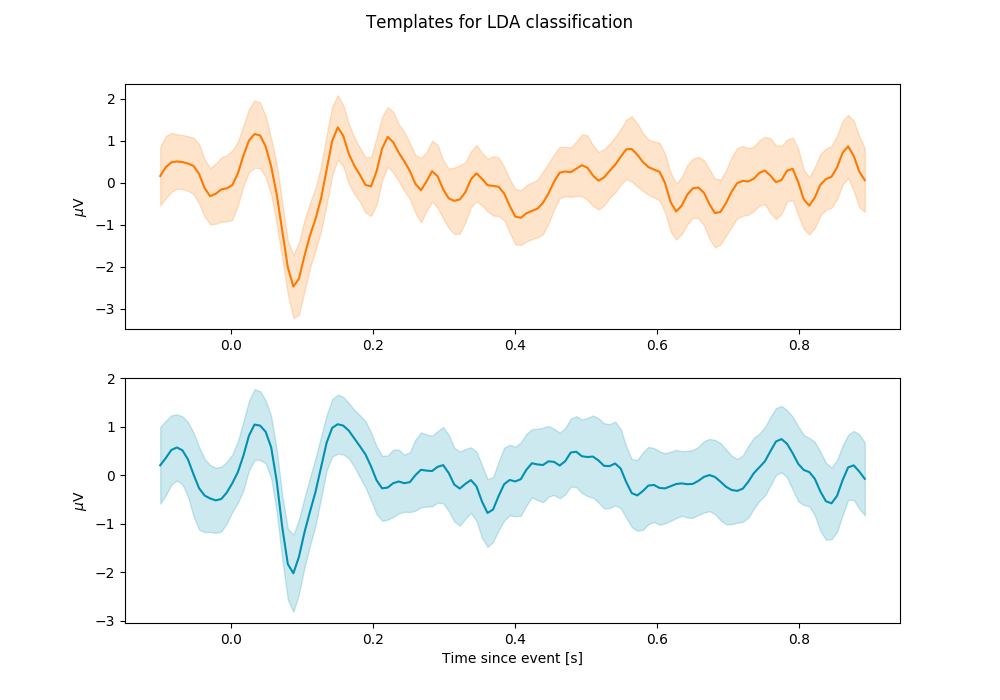
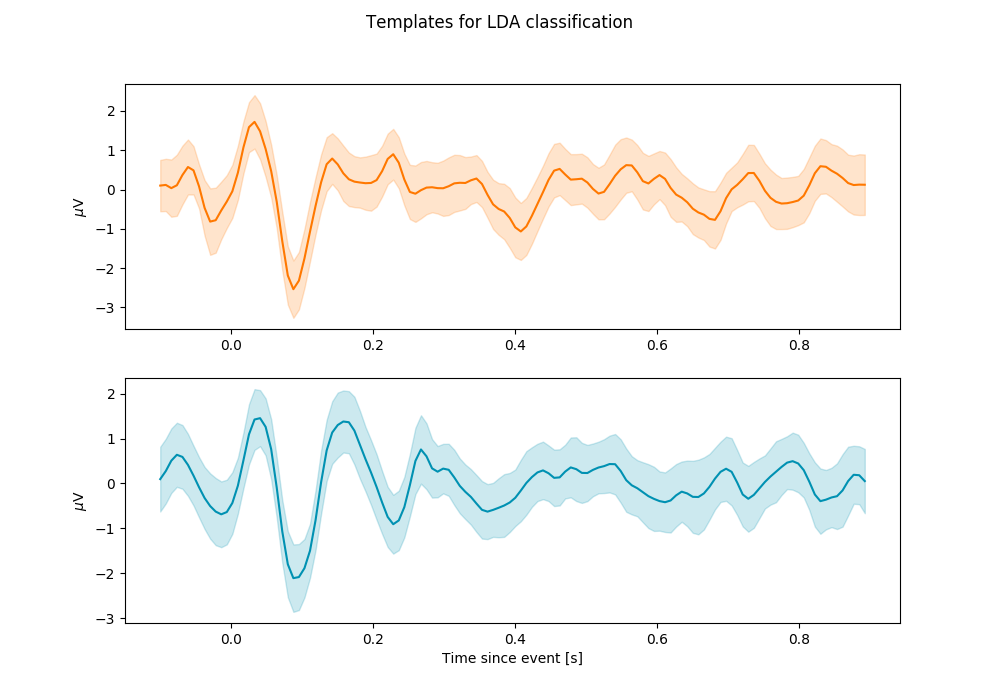
[FEATURE] ROC calculation

diff --git a/analyse/utils.py b/analyse/utils.py
@@ -25,7 +25,7 @@ class ValueWithProps (object):
 		return np.array(_response_array)
 
 
-def ROC(X, y, model, name=None, path=None):
+def ROC(X, y, model, name=None, path=None, show=True):
 
 	indexes = np.arange(0, len(y))
 	np.random.shuffle(indexes)
@@ -78,16 +78,16 @@ def ROC(X, y, model, name=None, path=None):
 		auc += t_p[::-1][i] * df
 	auc -= t_p[-1] * diff_f_p[-1]/2
 
-	# plt.subplot(1, 2, 2)
-	# plt.plot(f_p, t_p)
-	# plt.plot([0, 1], [0, 1], ls='--')
-	# plt.xlabel('False Positive Rate')
-	# plt.ylabel('True Positive Rate')
-	# plt.title("AUC: {:.2f}".format(auc))
-	#
-	# if path: plt.savefig(path)
-	#
-	# plt.show()
+	plt.subplot(1, 2, 2)
+	plt.plot(f_p, t_p)
+	plt.plot([0, 1], [0, 1], ls='--')
+	plt.xlabel('False Positive Rate')
+	plt.ylabel('True Positive Rate')
+	plt.title("AUC: {:.2f}".format(auc))
+
+	if path: plt.savefig(path)
+
+	if show: plt.show()
 
 def bootstrap_error(signals):
 	N = 100
@@ -103,23 +103,44 @@ def bootstrap_error(signals):
 
 def getSignalData():
 	print('Getting Signal Data')
+	data = {
+		'X': {
+			'f1': np.load('../Ania_Ch_classes.npy'),
+			'm1': np.load('../Tomek_classes.npy'),
+		    'm2': np.load('../pawel_classes.npy'),
+	        'm3': np.load('../lukasz_classes.npy'),
+	        'm4': np.load('../Czarek_classes.npy'),
+	        'f2': np.load('../Weronika_classes.npy'),
+	        'f3': np.load('../Ania_S_classes.npy')
+		},
+		'y': {
+			'f1': np.load('../Ania_Ch_labels.npy'),
+			'm1': np.load('../Tomek_labels.npy'),
+			'm2': np.load('../pawel_labels.npy'),
+			'm3': np.load('../lukasz_labels.npy'),
+			'm4': np.load('../Czarek_labels.npy'),
+			'f2': np.load('../Weronika_labels.npy'),
+			'f3': np.load('../Ania_S_labels.npy')
+		}
+	}
 	return {
 		'X': np.concatenate((
-	        np.load('../Ania_Ch_classes.npy'),
-		    np.load('../Tomek_classes.npy'),
-		    np.load('../pawel_classes.npy'),
-		    np.load('../lukasz_classes.npy'),
-		    np.load('../Czarek_classes.npy'),
-		    np.load('../Weronika_classes.npy'),
-		    np.load('../Ania_S_classes.npy')
+	        data['X']['f1'],
+	        data['X']['m1'],
+	        data['X']['m2'],
+	        data['X']['m3'],
+	        data['X']['m4'],
+	        data['X']['f2'],
+	        data['X']['f3'],
 		)),
 		'y': np.concatenate((
-		    np.load('../Ania_Ch_labels.npy'),
-		    np.load('../Tomek_labels.npy'),
-		    np.load('../pawel_labels.npy'),
-		    np.load('../lukasz_labels.npy'),
-		    np.load('../Czarek_labels.npy'),
-		    np.load('../Weronika_labels.npy'),
-		    np.load('../Ania_S_labels.npy')
-		))
+			data['y']['f1'],
+			data['y']['m1'],
+			data['y']['m2'],
+			data['y']['m3'],
+			data['y']['m4'],
+			data['y']['f2'],
+			data['y']['f3'],
+		)),
+		'data': data
 	}

diff --git a/analyse/calculateROCs.py b/analyse/calculateROCs.py
@@ -1,12 +1,52 @@
 from utils import ROC
 from utils import getSignalData
 import model
+import numpy as np
 
 data = getSignalData()
-X = data['X'][:, 6:14, :]
-y = data['y']
+
+def getGlobalModel(patientKey):
+	X_global = []
+	y_global = []
+	for patient in data['data']['X'].keys():
+			if (patient != patientKey):
+				X_global.append(data['data']['X'][patient][:, 6:14, :])
+				y_global.append(data['data']['y'][patient])
+	X_global = np.concatenate(X_global)
+	y_global = np.concatenate(y_global)
+
+	models = [m() for m in model.models[:3]]
+
+	indexes = np.arange(0, len(y_global))
+	np.random.shuffle(indexes)
+
+	X_global = X_global[indexes]
+	y_global = y_global[indexes]
+
+	number_of_test_items = int(round(0.7 * len(y)))
+
+	X_train = X_global[:number_of_test_items]
+	y_train = y_global[:number_of_test_items]
+	X_test = X_global[number_of_test_items:]
+	y_test = y_global[number_of_test_items:]
+
+	return model.models[3](models).fit(X_train, y_train, X_test, y_test)
+
+for patient in data['data']['X'].keys():
+	X = data['data']['X'][patient][:, 6:14, :]
+	y = data['data']['y'][patient]
+
+	global_model = getGlobalModel(patient)
+
+	for m in model.models[:3]:
+		clf = m()
+		ROC(X, y, clf, name=patient, path='./rocs/{}_{}.png'.format(clf, patient), show=False)
 
 
-for m in model.models:
-	print(m())
-	ROC(X, y, m(), name=None, path=None)
+	models = [m() for m in model.models[:3]]
+	clf = model.models[3](models)
+	ROC(X, y, clf, name=patient, path='./rocs/{}_{}.png'.format(clf, patient), show=False)
+
+	models = [m() for m in model.models[:3]]
+	clf = model.models[4](models, global_model=global_model)
+	ROC(X, y, clf, name=patient, path='./rocs/{}_{}'.format(clf, patient), show=False)

diff --git a/analyse/model/cnn.py b/analyse/model/cnn.py
@@ -5,7 +5,8 @@ import numpy as np
 from .config import SAMPLING_RATE
 
 class Ensamble_CNN(object):
-    def __init__(self):
+    def __init__(self, *args):
+        self.epoch = args[0] if args else 200
         self.model = Sequential()
         self.model.add(Dropout(0.25, input_shape=(8, SAMPLING_RATE)))
         self.model.add(Conv1D(8, 1, input_shape=(8, SAMPLING_RATE)))
@@ -22,7 +23,7 @@ class Ensamble_CNN(object):
                            metrics=['accuracy'])
 
     def fit(self, X, y, *args, **kwargs):
-        self.model.fit(X, y, batch_size=16, nb_epoch=10, verbose=1)
+        self.model.fit(X, y, batch_size=16, nb_epoch=self.epoch, verbose=1)
 
     def predict(self, X,):
         return np.round(self.model.predict(X.reshape(1, 8, SAMPLING_RATE)))
@@ -31,4 +32,7 @@ class Ensamble_CNN(object):
         return self.model.predict_proba(X.reshape(1, 8, SAMPLING_RATE))[0][0]
 
     def __str__(self):
+        return 'Ensamble_CNN'
+
+    def __repr__(self):
         return 'Ensamble_CNN'

diff --git a/analyse/model/tier_1.py b/analyse/model/tier_1.py
@@ -4,20 +4,10 @@ class Tier_1_Model(object):
     def __init__(self, models):
         self.models = models
 
-    def fit(self, X, y, X_test, y_test):
+    def fit(self, X, y, *args):
 
         for model_index in range(len(self.models)):
-            total = len(y_test)
-            correct = 0
-            f_p = 0
-
-            self.models[model_index].fit(X, y, X_test, y_test)
-
-            for i in range(total):
-                if self.models[model_index].predict(X_test[i]) == y_test[i]:
-                    correct += 1
-                elif self.models[model_index].predict(X_test[i]) == 1:
-                    f_p += 1
+            self.models[model_index].fit(X, y, *args)
 
     def predict(self, X):
         prediction = np.zeros(2)
@@ -39,4 +29,7 @@ class Tier_1_Model(object):
         return prediction / len(self.models)
 
     def __str__(self):
+        return 'Tier 1 Model'
+
+    def __repr__(self):
         return 'Tier 1 Model'

diff --git a/analyse/model/tier_2.py b/analyse/model/tier_2.py
@@ -4,13 +4,13 @@ from .tier_1 import Tier_1_Model
 
 class Tier_2_Model(object):
 
-    def __init__(self, *args, **kwargs):
-        if kwargs['global_model']:
+    def __init__(self, models, *args, **kwargs):
+        if 'global_model' in kwargs.keys():
             self.global_model = kwargs['global_model']
         else:
             self.global_model = None
 
-        self.models = args
+        self.models = models
 
     def fit(self, *args):
         if not self.global_model:
@@ -76,4 +76,7 @@ class Tier_2_Model(object):
         return prediction/2
 
     def __str__(self):
+        return 'Tier 2 Model'
+
+    def __repr__(self):
         return 'Tier 2 Model'

diff --git a/analyse/model/mdm.py b/analyse/model/mdm.py
@@ -5,7 +5,7 @@ from .config import SAMPLING_RATE
 
 class Ensamble_MDM(object):
 	def __init__(self):
-		self.NUMBER_OF_MODELS = 2
+		self.NUMBER_OF_MODELS = 20
 		self.models = []
 
 	def fit(self, X, y, *args, **kwargs):
@@ -77,4 +77,7 @@ class Ensamble_MDM(object):
 		return prediction[1] / total_possible
 
 	def __str__(self):
+		return 'Ensamble_MDM'
+
+	def __repr__(self):
 		return 'Ensamble_MDM'

diff --git a/analyse/model/lda.py b/analyse/model/lda.py
@@ -55,3 +55,6 @@ class Ensamble_LDA(object):
 
     def __str__(self):
         return 'Ensamble_LDA'
+
+    def __repr__(self):
+        return 'Ensamble_LDA'

diff --git a/analyse/event_related_potetnial.py b/analyse/event_related_potetnial.py
@@ -38,7 +38,7 @@ if __name__ == '__main__':
 	X = data['X']
 	y = data['y']
 
-	channel_id = 7
+	channel_id = 11
 
 	ERP(X, y, channel_id)
 
